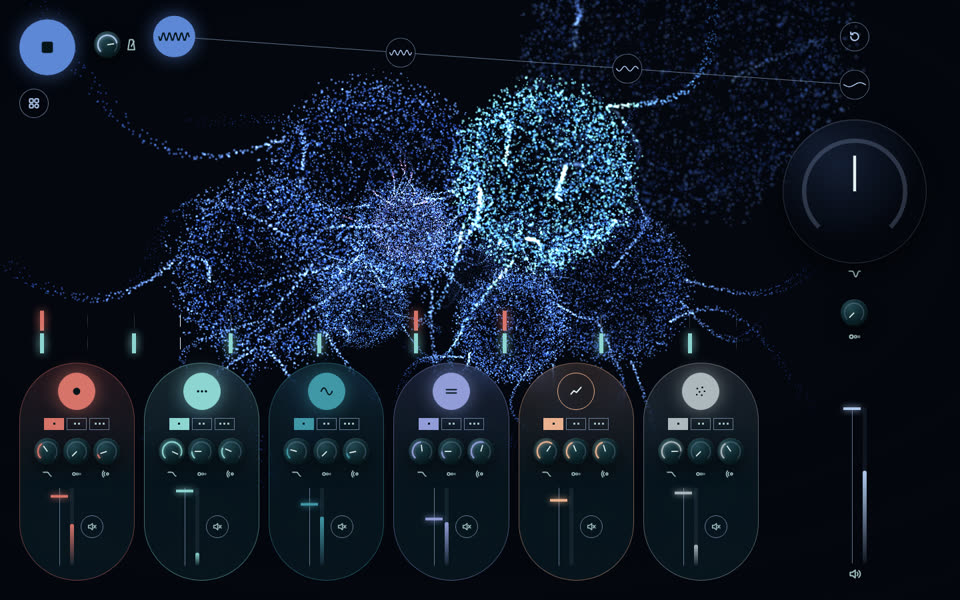
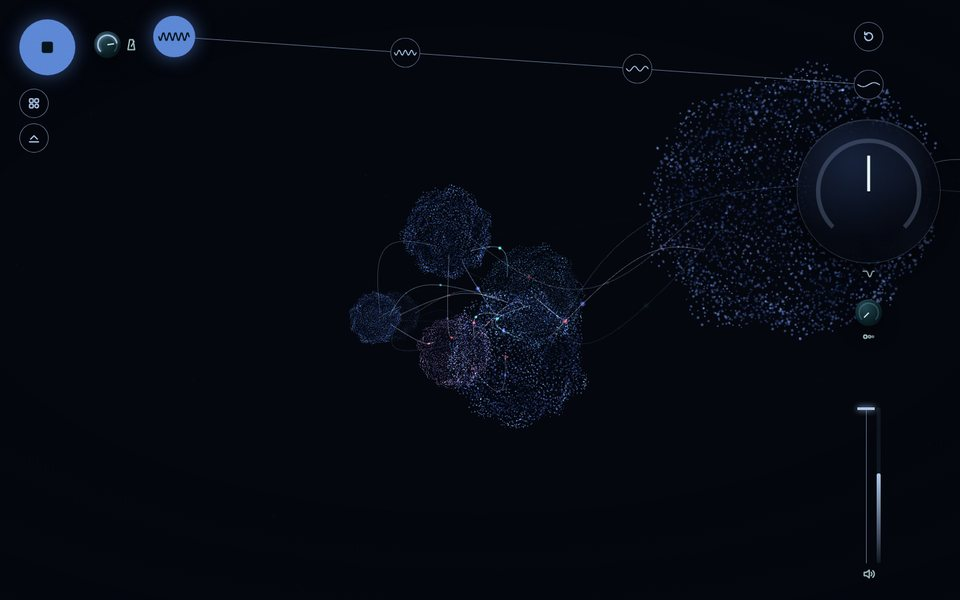
docs: updated views, controls and screenshots

diff --git a/README.md b/README.md
@@ -18,12 +18,12 @@ python3 -m http.server 8000
 
 Открыть http://localhost:8000 и нажать круглую кнопку слева сверху.
 
-Под кнопкой старта кнопка «Варианты»: раскрывает виды нейронов и варианты нижней панели. Выбор хранится в адресе:
+Под кнопкой старта две кнопки: «Варианты» раскрывает виды нейронов и варианты нижней панели, вторая прячет панель (`H`), чтобы смотреть на нейроны. Выбор хранится в адресе:
 
 - `?view=network|flight|stream|field|cascade`: вид нейронов
 - `?layout=m|a|b|c`: вариант нижней панели, без параметра исходная
 
-Во всех вариантах шесть капсул равной ширины, ряд кончается по краю растра. Сброс, часть 4, кольцо DJ-фильтра и громкость стоят на одной вертикали.
+Во всех вариантах шесть капсул равной ширины, ряд кончается по краю растра. Сброс, часть 4, кольцо DJ-фильтра и громкость стоят на одной вертикали. Колонка выхода шириной с кольцо, поэтому поля слева и справа равны.
 
 | Вариант | Что видно | Где остальное |
 | --- | --- | --- |
@@ -50,6 +50,8 @@ python3 -m http.server 8000
 | Вариация | точки под кнопкой | `Q` `W` `E` `R` `T` `Y` |
 | Часть сета | кнопки сверху | `Z` `X` `C` `V` |
 | Сброс части | круг справа сверху | `0` |
+| Скрыть панель | кнопка под «Вариантами» | `H` |
+| Ракурс | тянуть по фону, правая кнопка или Shift сдвигает, колесо приближает | |
 | Ручки и движки | drag, двойной клик для сброса | стрелки, `PageUp`, `PageDown`, `Home`, `End` |
 
 Смены слоёв и частей применяются с начала следующего такта.
@@ -65,23 +67,25 @@ python3 -m http.server 8000
 
 `network`: исходная сеть, 520 нейронов в двух полушариях, импульсы по связям.
 
-Четыре вида-облака: каждый нейрон из ~5 000 частиц с плотной оболочкой и нитями-дендритами. Нота слоя зажигает нейрон этого слоя, по нитям бежит импульс наружу.
+Четыре вида-шара: каждый нейрон из 3 600 мягких точек. По оболочке текут холмы шума в две октавы (simplex), цвет идёт от тёмного синего во впадинах к ледяному на вершинах. Все шары связаны изогнутыми линиями, по каждой линии бежит свой импульс. Нота слоя зажигает шар этого слоя и пускает сигналы его цвета ко всем соседям. Всё плывёт вправо. Фон: мелкая мерцающая пыль, она же есть в `network`.
 
 | | |
 | --- | --- |
 | ![Полёт](docs/view-flight.jpg) | ![Лента](docs/view-stream.jpg) |
 | ![Поле](docs/view-field.jpg) | ![Каскад](docs/view-cascade.jpg) |
 
-- `flight`: камера летит сквозь бесконечное поле нейронов, облака выплывают из глубины и проходят мимо.
-- `stream`: облака на разной глубине плывут поперёк экрана и по кругу возвращаются.
-- `field`: облака заполняют фон и живут на месте: дышат, вспыхивают по слоям.
-- `cascade`: вспышка переходит к соседним нейронам с задержкой, искры показывают передачу (нейронная лавина).
+- `flight`: шары выплывают из глубины, проходят мимо камеры и рождаются снова вдали. Линии только между ближними.
+- `stream`: шары на разной глубине плывут вправо, дальние медленнее, у края тают и выходят слева.
+- `field`: два ряда шаров медленно дрейфуют вправо, дышат, вспыхивают по слоям.
+- `cascade`: сигнал, дошедший до соседа, зажигает его с вероятностью 0.7, 0.49, 0.34…: нейронная лавина до четырёх шагов.
+
+Когда панель скрыта, нижний ряд шаров плавно опускается на освободившееся место.
 
 Общая модель спайков (`src/views/spikes.js`): рефрактерный период, затухание, редкая фоновая активность.
 
 | Синтезатор | Визуализация |
 | --- | --- |
-| нота слоя | спайк цвета слоя: импульс по сети или вспышка нейрона и импульс по нитям |
+| нота слоя | спайк цвета слоя: импульс по сети или вспышка шара и сигналы к соседям |
 | уровень слоя (Tone.Meter) | яркость популяции |
 | Mute, выключенный слой | популяция гаснет |
 | темп | скорость импульсов, дыхания и полёта |
@@ -89,7 +93,7 @@ python3 -m http.server 8000
 | DJ-фильтр закрыт | меньше видимых точек и связей, тусклее |
 | часть сета 1 → 4 | меньше насыщенности, плотности и энергии |
 | уровень мастера | энергия: амплитуда волн и вращения |
-| курсор | раздвигает частицы облаков, мышь крутит сеть |
+| курсор | раздвигает точки шаров; мышь крутит, двигает и приближает вид |
 
 Один WebGL-рендерер на все виды, pixel ratio не больше 2, на скрытой вкладке кадры не рисуются, при смене вида геометрии и материалы освобождаются. При `prefers-reduced-motion` спайков нет, движение медленное.
 
@@ -106,7 +110,7 @@ src/
   audio.js      звуковой граф и транспорт, без DOM
   controls.js   ручка, движок, кнопки, растр
   visuals.js    рендерер, переключение видов, сглаженное состояние музыки
-  views/        network.js, swarm.js (облака), spikes.js (модель спайков)
+  views/        network.js, swarm.js (шары), spikes.js (модель спайков), dust.js (пыль)
   icons.js      SVG-значки
   main.js       точка входа
 styles/
